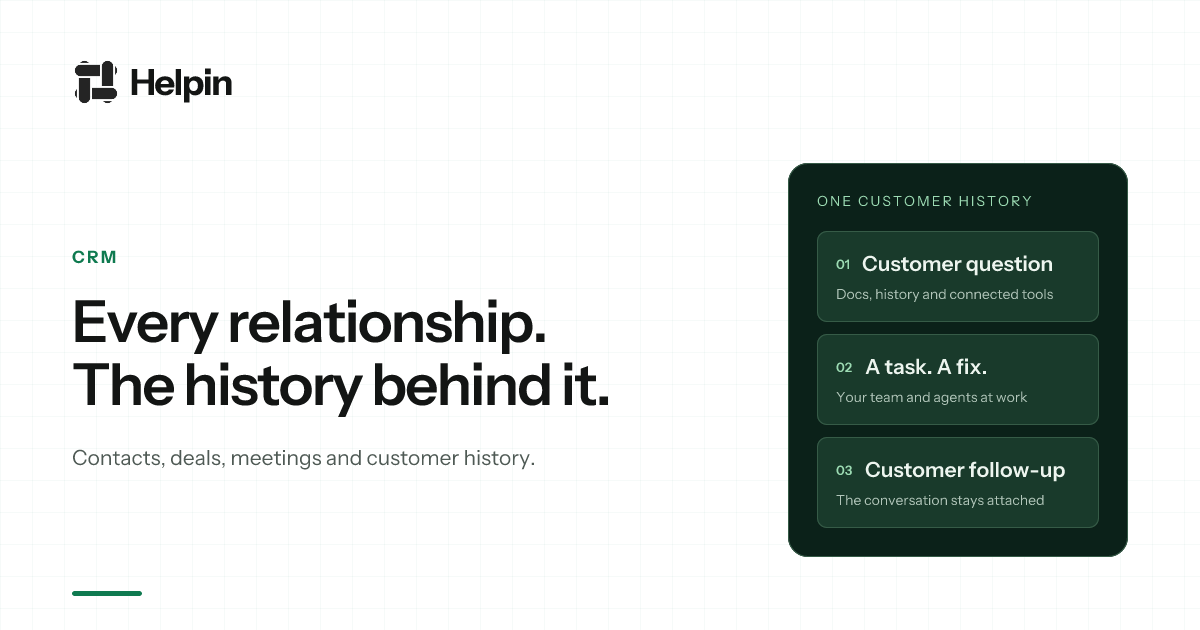
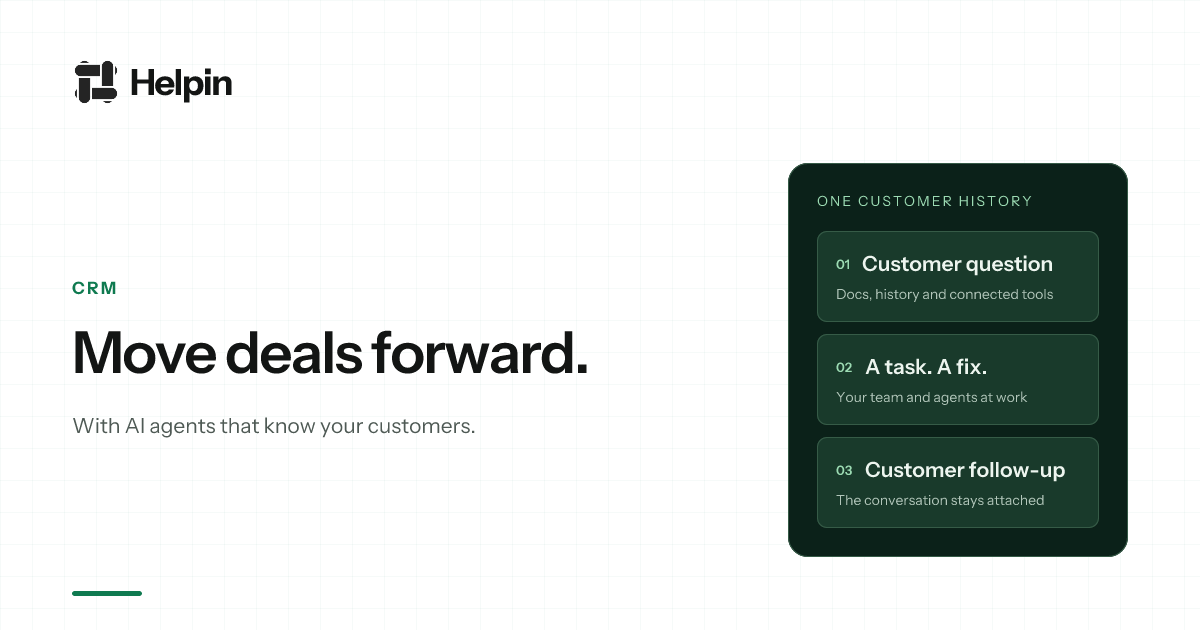
Align marketing OG images with current AI agent messaging

Changed region(s): [[0.0617, 0.3921, 0.5242, 0.6937], [0.0617, 0.7238, 0.4317, 0.754]]

diff --git a/website/src/lib/metadata.ts b/website/src/lib/metadata.ts
@@ -17,7 +17,7 @@ export const PAGE_SEO = {
       'Helpin connects projects, support, sales, and docs with AI agents that plan, build, triage, and follow up across every team.',
     canonicalPath: '/',
     imagePath: '/og/helpin-home-green.png',
-    imageAlt: 'Helpin — From customer question to shipped fix',
+    imageAlt: 'Helpin — AI agents that do more than answer.',
   },
   pricing: {
     title: 'Pricing — Open source and Helpin Cloud',
@@ -25,7 +25,7 @@ export const PAGE_SEO = {
       'Self-host the open-source product or choose Helpin Cloud with unlimited teammates and monthly AI usage. Compare plans, hosting and Enterprise licensing.',
     canonicalPath: '/pricing',
     imagePath: '/og/helpin-pricing-green.png',
-    imageAlt: 'Helpin pricing focuses on growth, not seat count',
+    imageAlt: 'Helpin pricing — One platform. Your whole team, connected.',
   },
   privacy: {
     title: 'Privacy Policy — Helpin',
